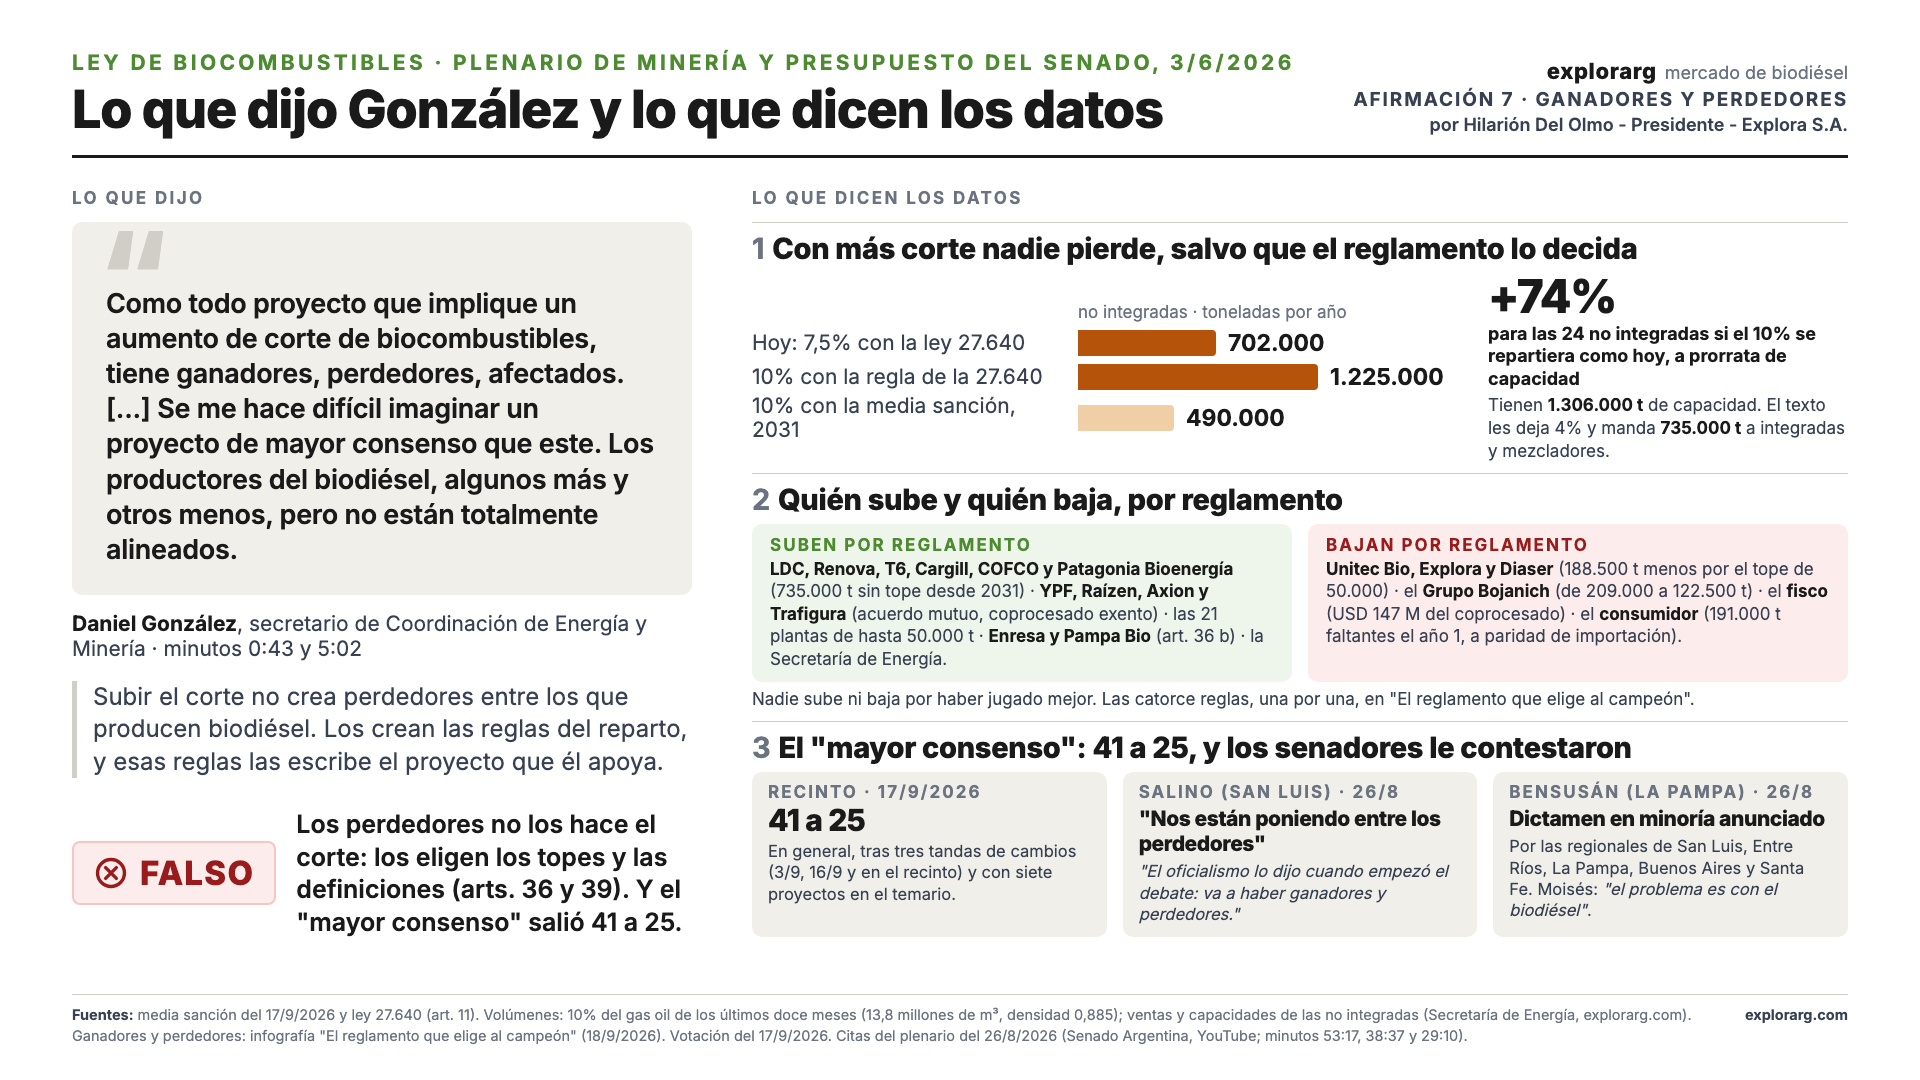
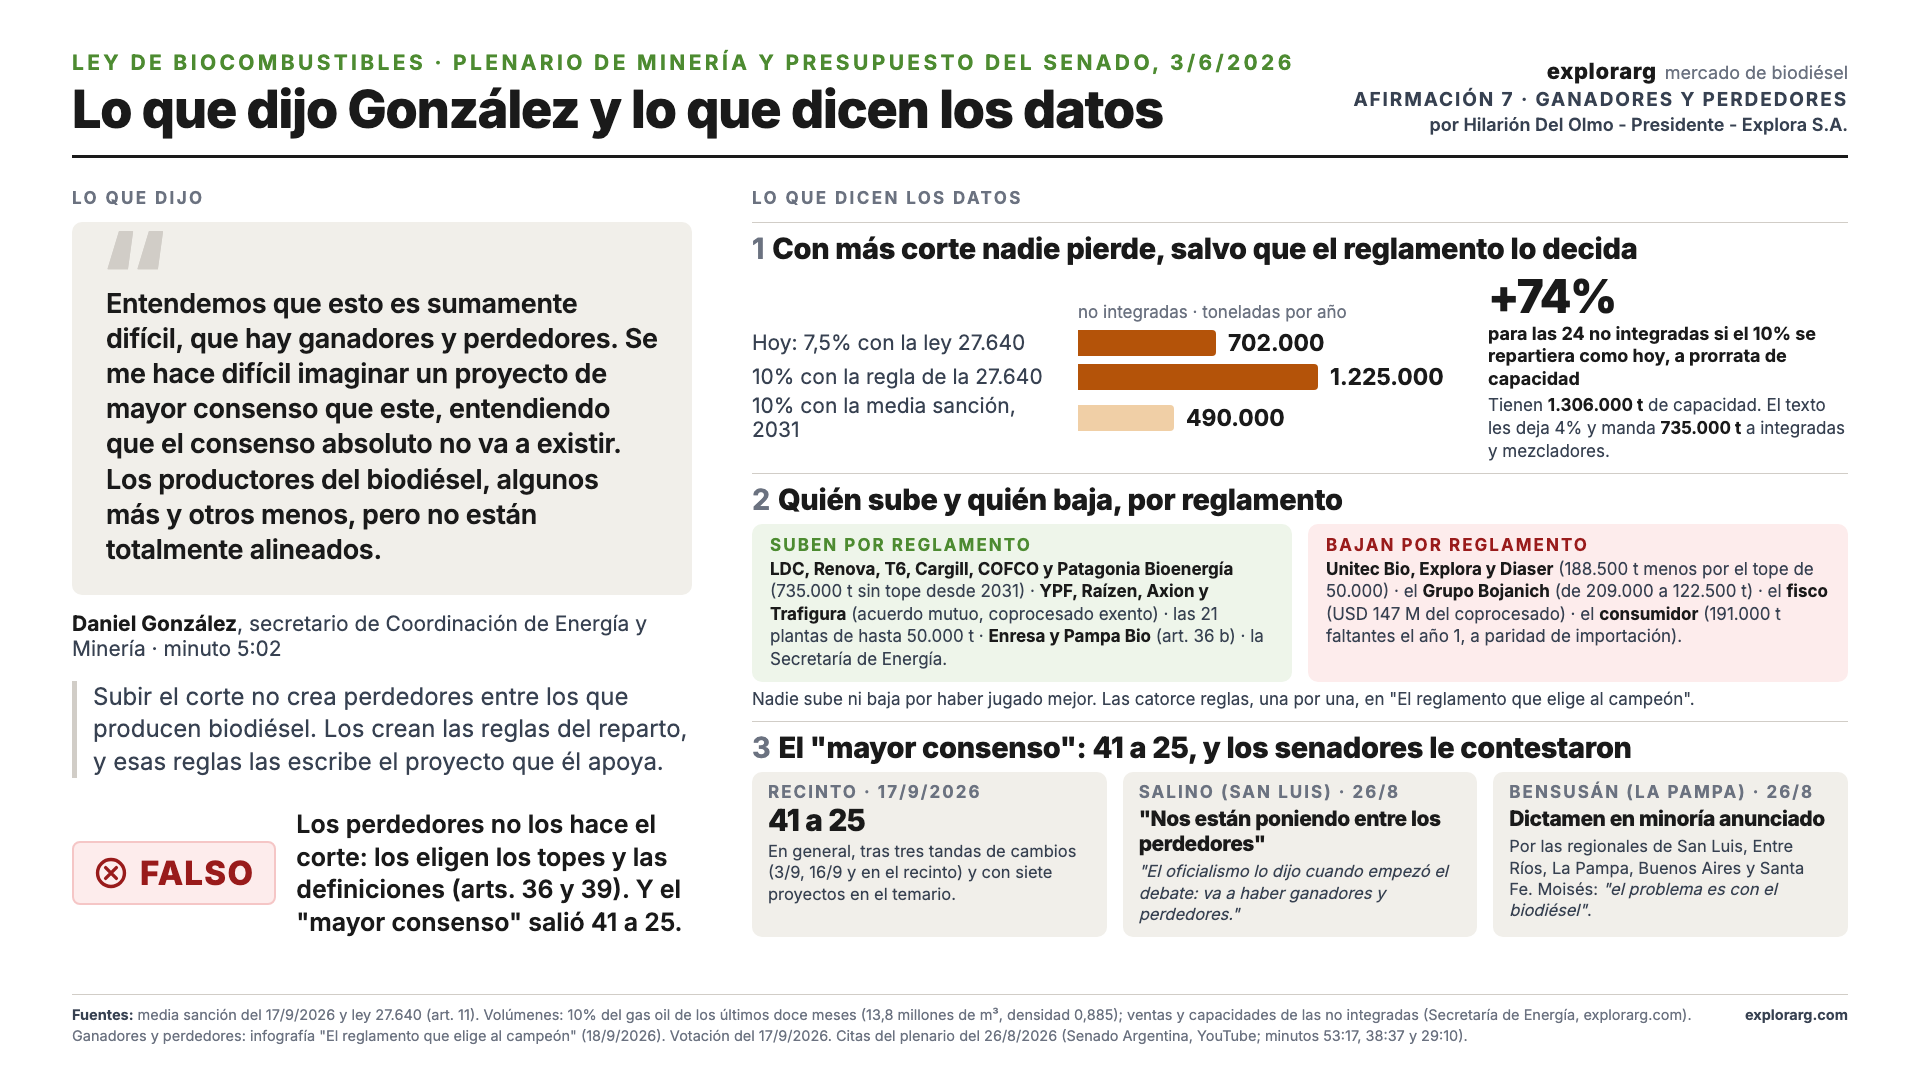
feat(diputados): el Anexo 1 de González pasa al video borrador 2 y suma la afirmación 0
Video KGQgxprSfQg (15:55, con la afirmación 0: el porqué del corte según los fundamentos del
S-809) en lugar del borrador 1; nueve tarjetas (la 0 al frente, la 7 con la cita del 5:02),
marcador 9 / 9 y frase del índice; láminas 00 nueva y 07 en borrador 2.

Changed region(s): [[0.0625, 0.275, 0.3438, 0.5194], [0.125, 0.5806, 0.1875, 0.6111]]

diff --git a/src/components/diputados/AnexoGonzalez.jsx b/src/components/diputados/AnexoGonzalez.jsx
@@ -5,15 +5,19 @@ import './anexoGonzalez.css';
 /**
  * Anexo 1 de "Qué pasa y qué se juega en Diputados": "Lo que dijo González y
  * lo que dicen los datos" (plenario de Minería y Presupuesto del Senado,
- * 3/6/2026). Las ocho afirmaciones de Daniel González, secretario de
- * Coordinación de Energía y Minería, con la cita literal, el veredicto y la
- * lámina completa de la serie (public/evidencia/gonzalez/, las mismas del
- * video) en un pop-up. Textos de las láminas del 13/10/2026 (borrador,
- * HDO los revisa en la página). Pedido de HDO, 19/10/2026.
+ * 3/6/2026). Las nueve afirmaciones de Daniel González, secretario de
+ * Coordinación de Energía y Minería (la 0 se sumó el 20/10/2026: el porqué
+ * del corte según los fundamentos del S-809), con la cita literal, el
+ * veredicto y la lámina completa de la serie (public/evidencia/gonzalez/, las
+ * mismas del video) en un pop-up. Textos de las láminas del 13 y el 20/10/2026
+ * (borrador, HDO los revisa en la página). Pedido de HDO, 19/10/2026.
  */
 const IMG = (n) => `/evidencia/gonzalez/gonzalez_afirmacion_0${n}.png`;
 
 export const AFIRMACIONES = [
+  { n: 0, tema: 'El porqué del corte', minuto: '0:34',
+    cita: 'Ese proyecto implica un aumento del corte de dos puntos y medio en el biodiésel y de tres puntos en el etanol. Como todo proyecto que implica un aumento de corte de biocombustibles, tiene ganadores, perdedores, afectados. El sector que más nos importa a nosotros, del Ejecutivo, es el consumidor.',
+    veredicto: 'No dice por qué se sube el corte; los fundamentos del S-809 sí: menos emisiones y precio protegido de la volatilidad. El ganador es la sociedad, es decir el consumidor. Y una ley no tiene que elegir perdedores.' },
   { n: 1, tema: 'El precio del biodiésel', minuto: '1:12',
     cita: 'El biodiésel tiene un costo muchísimo más alto que el fósil con el cual se mezcla. Antes de esta suba del precio del petróleo estábamos hablando de una diferencia de 80% por arriba del fósil. Ahora estamos en un número menor, pero todavía sustancialmente más alto.',
     veredicto: 'Contra el gas oil fósil que se mezcla era 50%, no 80%. Y el día que habló, 1%.' },
@@ -32,8 +36,8 @@ export const AFIRMACIONES = [
   { n: 6, tema: 'Cupos y competencia', minuto: '4:18',
     cita: 'El otro problema que tiene la ley actual es que funciona con cupos. Nosotros no creemos en cupos, creemos en la competencia. En el biodiésel, que esa competencia se vaya dando en el tiempo con una reducción gradual de los cupos en cinco años.',
     veredicto: 'El texto que apoya asigna cupos con topes por ley hasta 2036. Y la competencia la abre de un solo lado: el de los que venden, no el de los cuatro que compran.' },
-  { n: 7, tema: 'Ganadores y perdedores', minuto: '0:43 y 5:02',
-    cita: 'Como todo proyecto que implique un aumento de corte de biocombustibles, tiene ganadores, perdedores, afectados. [...] Se me hace difícil imaginar un proyecto de mayor consenso que este. Los productores del biodiésel, algunos más y otros menos, pero no están totalmente alineados.',
+  { n: 7, tema: 'Ganadores y perdedores', minuto: '5:02',
+    cita: 'Entendemos que esto es sumamente difícil, que hay ganadores y perdedores. Se me hace difícil imaginar un proyecto de mayor consenso que este, entendiendo que el consenso absoluto no va a existir. Los productores del biodiésel, algunos más y otros menos, pero no están totalmente alineados.',
     veredicto: 'Los perdedores no los hace el corte: los eligen los topes y las definiciones (arts. 36 y 39). Y el "mayor consenso" salió 41 a 25.' },
   { n: 8, tema: 'Mezcla estable', minuto: '5:43',
     cita: 'Las compañías automotrices tienen que calibrar motores para una mezcla que tiene que ser predecible y estable. Por eso, lo que se propone en este proyecto de ley, de que estas mezclas mínimas permanezcan por 15 años, también nos parece una buena idea.',
@@ -124,9 +128,9 @@ export default function AnexoGonzalez() {
       </div>
 
       <div className="agz-marcador" role="note">
-        <span className="agz-marcador-n">8</span>
+        <span className="agz-marcador-n">9</span>
         <span className="agz-marcador-texto">afirmaciones, contrastadas una por una con los datos</span>
-        <span className="agz-marcador-n agz-marcador-rojo">8</span>
+        <span className="agz-marcador-n agz-marcador-rojo">9</span>
         <span className="agz-marcador-texto">sellos: <b>FALSO</b></span>
       </div>
 

diff --git a/src/components/diputados/capitulos.jsx b/src/components/diputados/capitulos.jsx
@@ -441,7 +441,7 @@ export const armarCapitulos = (esq = false) => [
     titulo: 'Lo que dijo el secretario de Coordinación de Energía y Minería, licenciado Daniel González, y lo que dicen los datos',
     subtitulo: 'Lic. Daniel González (ex CEO de YPF)',
     pal: AZUL,
-    frase: 'Lic. Daniel González (ex CEO de YPF). Ocho afirmaciones en el plenario del Senado del 3 de junio de 2026, contrastadas una por una con los datos. Ocho sellos: FALSO.',
+    frase: 'Lic. Daniel González (ex CEO de YPF). Nueve afirmaciones en el plenario del Senado del 3 de junio de 2026, contrastadas una por una con los datos. Nueve sellos: FALSO.',
     cuerpo: <AnexoGonzalez />,
   },
   {

diff --git a/src/components/diputados/anexoGonzalez.css b/src/components/diputados/anexoGonzalez.css
@@ -33,7 +33,7 @@
   color: #fff;
 }
 
-/* Marcador: ocho afirmaciones, ocho sellos */
+/* Marcador: nueve afirmaciones, nueve sellos */
 .agz-marcador {
   display: flex;
   flex-wrap: wrap;
